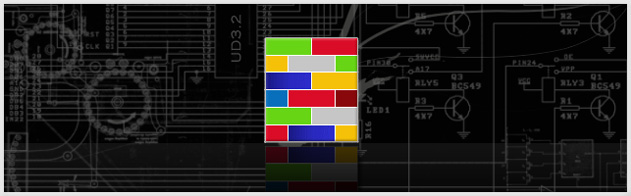
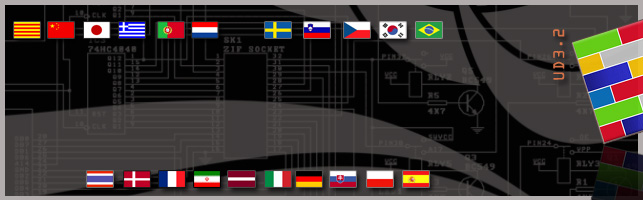
image changes.

diff --git a/doc/html/development.html b/doc/html/development.html
@@ -102,7 +102,7 @@ alt="Valid CSS!" /></a></p>
 <h3 class="style2">Contributing  to UltraDefrag</h3>
 <hr />
 <p>If you wish to contribute to UltraDefrag, you need to present your idea to the  appropiate person, download the latest source from <a href="http://ultradefrag.svn.sourceforge.net/viewvc/ultradefrag/"><strong>subversion</strong></a>, make the  changes, and submit the patch or improvement. Upon approval, your patch will be  committed to subversion and credit added to the file. Person to contact about development are 
-<a href="mailto:dmitriar%20+%20at%20+%20gmail%20+%20dot%20+%20com"><strong>Dmitri Arkhangelski</strong></a>, <a href="mailto:zippy1981 + at + gmail + dot + com"><strong>Justin Dearing</strong></a>. </p>
+<a href="mailto:dmitriar%20+%20at%20+%20gmail%20+%20dot%20+%20com"><strong>Dmitri Arkhangelski</strong></a>, <a href="mailto:zippy1981 + at + gmail + dot + com"><strong>Justin Dearing</strong></a>.</p>
 <ul>
 <li>For a full set of development guides refer to the <strong><a href="http://ultradefrag.sourceforge.net/handbook/development.html">Hanbook's Development Page</a></strong></li>
 </ul>
@@ -110,11 +110,17 @@ alt="Valid CSS!" /></a></p>
 <h3 class="style2">Who is in Charge</h3>
 <hr />
 <p><a href="mailto:dmitriar + at + gmail + dot + com"><strong>Dmitri</strong></a> is in  charge of the main program and the handbook. <a href="mailto:zippy1981 + at + gmail + dot + com"><strong>Justin</strong></a> maintains the documentation and wrote the  scheduler. So documentation and scheduler concerns go through Justin, while  everything else goes through Dmitri. <a href="mailto:gearspec + at + viperprogrammers + dot + net"><strong>Sayem</strong></a> maintains the webpage contents.</p>
-<p></p>
+<h4><span class="style2">Help us by making a Translation</span></h4>
+<hr />
+<p>The Ultra Defrag team needs your help. We need you to &lt;TRANSLATE&gt; UD to different languages. We believe in helping the community and different contributed translations will help UD available for all. Your contribution will be noted on the credits. Before you begin, check the <a href="http://sourceforge.net/apps/mediawiki/ultradefrag/index.php?title=Special:AllPages">LIST OF SUBMITTED TRANSLATIONS</a>. </p>
+<p>Here are the instructions on how to create and submit a translation for UD.</p>
+<ul>
+  <li><a href="http://sourceforge.net/apps/mediawiki/ultradefrag/index.php?title=Main_Page">HOW TO TRANSLATE</a></li>
+  </ul>
 <p>&nbsp; </p>
 <h3 class="style2">Getting the Source from subversion</h3>
 <hr />
-<p>The  subversion repository url is <a href="https://ultradefrag.svn.sourceforge.net/svnroot/ultradefrag/"><strong>https://ultradefrag.svn.sourceforge.net/svnroot/ultradefrag</strong></a>.  Download the latest copy of the source.</p>
+<p>The  subversion repository url is <a href="https://ultradefrag.svn.sourceforge.net/svnroot/ultradefrag/"><strong>https://ultradefrag.svn.sourceforge.net/svnroot/ultradefrag</strong></a>.  Download the latest copy of the source. You can get this easy to use version control software, <a href="http://tortoisesvn.tigris.org">Tortoise SVN</a> to download the source on to your hard drive.</p>
 <p>&nbsp;</p>
 <h3 class="style2">Note to Programmers</h3>
 <hr />

diff --git a/doc/html/index.html b/doc/html/index.html
@@ -57,8 +57,8 @@
         <p><img src="images/ud_small.gif" alt="" width="60" height="52" /></p>
         <p>Release Date - Sep 29th, 2009.</p>
         <p>UltraDefrag is powerful <strong>Open Source</strong> defragmentation tool for Windows  NT. It is very fast, because the defragmenting is done by kernel-mode  driver. They are three interfaces to them: graphical, console and  native. The GUI is very useful, because it represents your filesystem  visually as a color coded cluster map. The console is another option  for those that prefer the command line. It allows you to run  UltraDefrag from the task scheduler and scripts. Finally, the native  executable will run at boot time in a manner similar to chkdsk. </p>
-        <p>The design of UltraDefrag is very simple. There are no skins and other unnecessary stuff. It is a small and powerful program with loads of enhancements and useful features.</p>
-        <p>It  can be used on Windows NT 4.0, Windows 2000, Windows XP, Windows Server  2003, Windows Vista and all of the 64-bit editions of Windows. Also check out <a href="http://ultradefrag.sourceforge.net/handbook/installation.html#vista">VISTA INSTALLATION FAQ</a> to see how to run UltraDefrag on Windows Vista without errors.</p>
+        <p>The design of UltraDefrag is very simple. There are no skins and other unnecessary stuff. It is a small and powerful program with loads of enhancements and useful features. It has been translated to many languages.</p>
+        <p>It  can be used on Windows NT 4.0, Windows 2000, Windows XP, Windows Server  2003, Windows Vista, Windows Seven (Both 32bit and 64bit). Also check out <a href="http://ultradefrag.sourceforge.net/handbook/installation.html#vista">VISTA INSTALLATION FAQ</a> to see how to run UltraDefrag on Windows Vista without errors.</p>
         <ul>
           <li>Check the <strong><a href="overview.html">&lt;Overview&gt;</a></strong> for a full list of features and <strong><a href="overview.html#screenshots">&lt;Screenshots&gt;</a></strong></li>
         </ul>
@@ -69,7 +69,7 @@
         <p><a href="http://downloads.sourceforge.net/ultradefrag/ultradefrag-3.1.0.bin.amd64.exe"><img src="images/ud_64.png" alt="Download UltraDefrag 64bit" width="147" height="256" /></a></p>
         <p class="greybox">For all 64 bit Operating Systems - x64 editions of Windows NT4.0/2000/2003/XP/Vista/Server2008/Windows Seven</p>
         <p><a href="http://downloads.sourceforge.net/ultradefrag/ultradefrag-3.1.0.bin.ia64.exe"><img src="images/ud_ia64.png" alt="Download UltraDefrag for IA64" width="147" height="256" /></a></p>
-        <p class="greybox">For 64 bit OS Running Intel Itanium processor.</p>
+        <p class="greybox">For 64 bit OS Running on Intel Itanium processor.</p>
         <p>&nbsp;</p>
         <p>&nbsp;</p>
         <p>&nbsp;</p>
